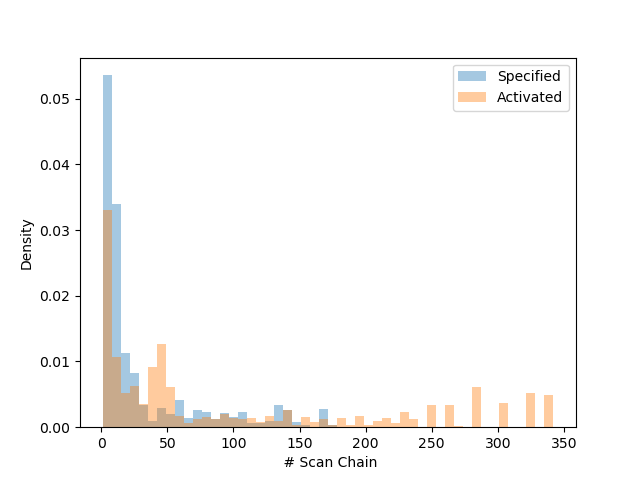
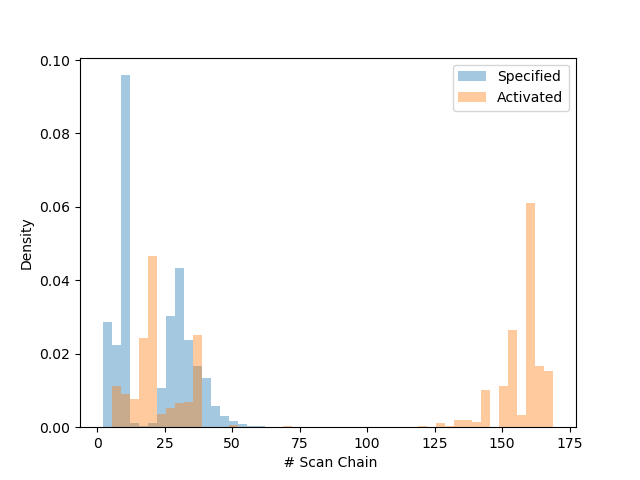
update.

diff --git a/encoding.py b/encoding.py
@@ -210,8 +210,8 @@ class TwoDimEncoding(object):
                         group_bit[mux_bit, self.group_mapping[mux_bit][str(ele_id)] % self.group_ctrl] = 1
                         chain_bit[mux_bit, self.group_mapping[mux_bit][str(ele_id)] // self.group_ctrl] = 1
             self.encoded_mux[id] = np.argmin(group_bit.sum(axis=1) * chain_bit.sum(axis=1))
-            self.encoded_group[id] = group_bit[self.encoded_mux]
-            self.encoded_chain[id] = chain_bit[self.encoded_mux]
+            self.encoded_group[id] = group_bit[int(self.encoded_mux[id])]
+            self.encoded_chain[id] = chain_bit[int(self.encoded_mux[id])]
 
     def eval(self):
         print('*' * 15)
@@ -249,13 +249,12 @@ class TwoDimEncoding(object):
         # print('Encoding success   rate is {:.2f}%.'.format(100.*succeeded))
 
 
-mlb = mlb[:10000] 
+# mlb = mlb[:10000] 
 encoder = TwoDimEncoding(mlb)
 encoder.merging()
 encoder.encoding()
 encoder.eval()
    
-
 
 
 # 4. Encoding
